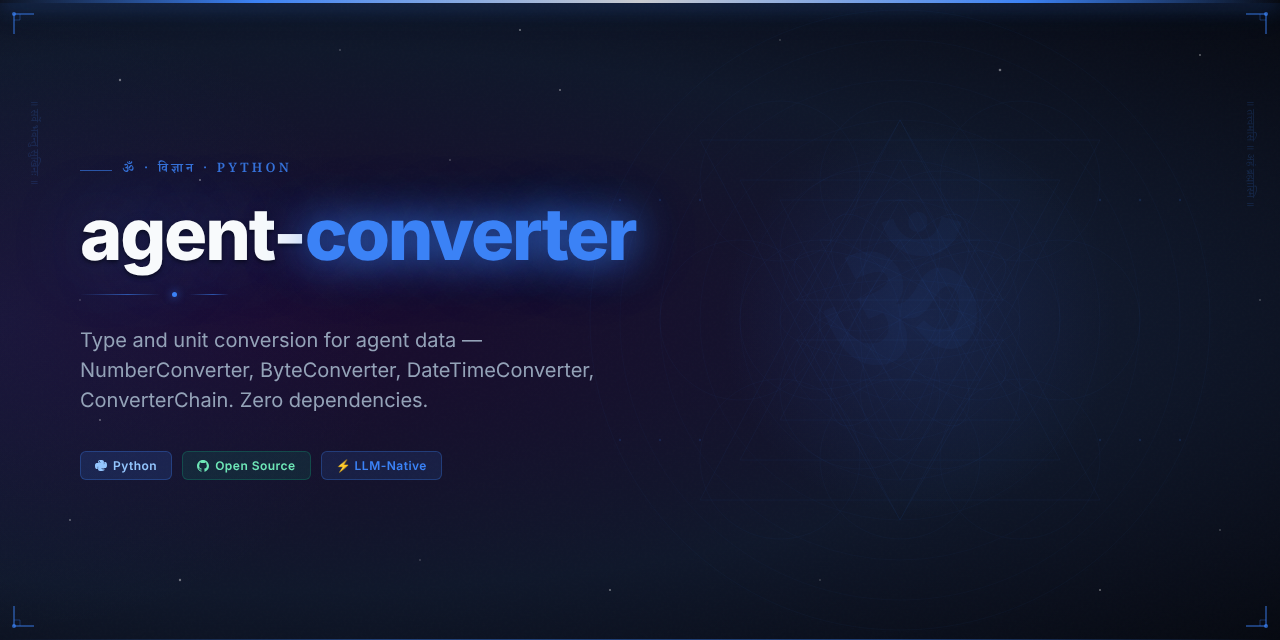
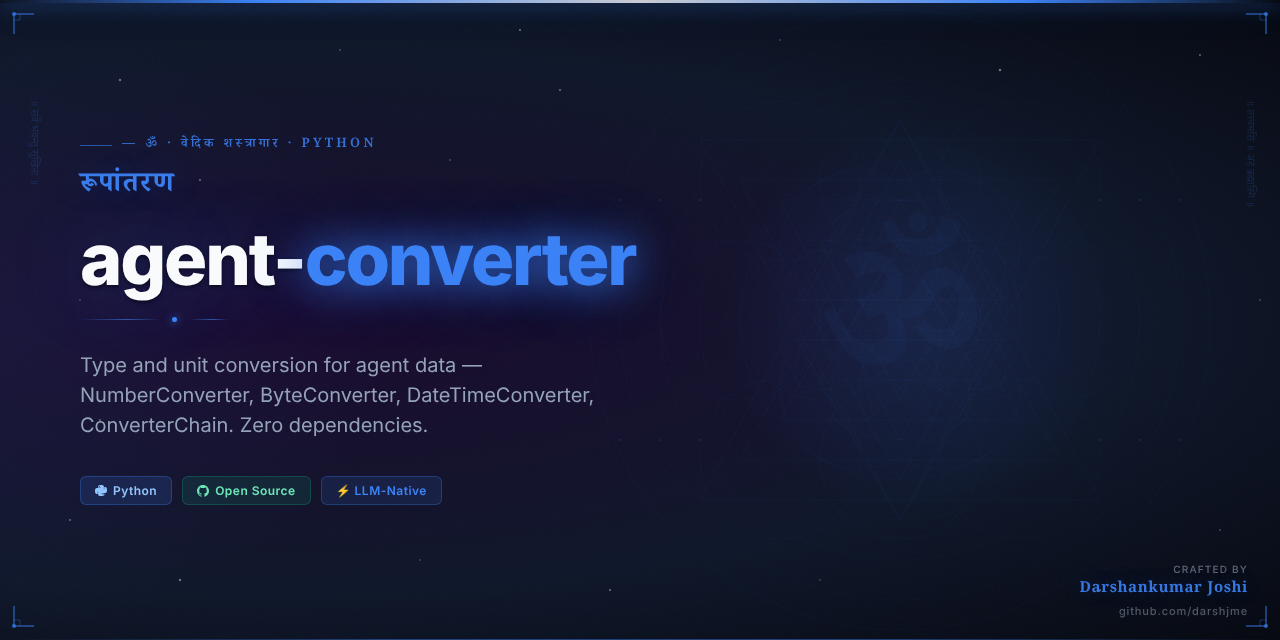
feat: add Vedic Arsenal hero image and updated README
Part of darshjme/arsenal — 100 production-grade Python libraries for LLM agents.
Vedic branding: ancient philosophy meets modern AI engineering.

diff --git a/README.md b/README.md
@@ -1,10 +1,12 @@
 <div align="center">
 
-<img src="assets/agent-converter-hero.png" alt="agent-converter — Vedic Arsenal" width="100%" />
+<img src="assets/agent-converter-hero.png" alt="agent-converter — Vedic Arsenal by Darshankumar Joshi" width="100%" />
 
 # 🌊 agent-converter
 
-### *रूपांतरण* — Rupantarana — transformation of forms
+<h3><em>रूपांतरण</em></h3>
+
+> *Rupantarana — transformation of forms*
 
 **Type and unit conversion for agent data — NumberConverter, ByteConverter, DateTimeConverter, ConverterChain. Zero dependencies.**
 
@@ -39,6 +41,19 @@ Or clone directly:
 git clone https://github.com/darshjme/agent-converter.git
 cd agent-converter
 pip install -e .
+```
+
+## How It Works
+
+```mermaid
+flowchart LR
+    A[Input] --> B[agent-converter]
+    B --> C{Process}
+    C -- Success --> D[Output]
+    C -- Error --> E[Handle / Retry]
+    E --> B
+    style B fill:#6b21a8,color:#fff
+    note["Converter — Zero Dependencies"]
 ```
 
 ## Quick Start
@@ -90,7 +105,7 @@ MIT — use freely, build freely.
 
 <div align="center">
 
-**Built with 🌊 by [Darshankumar Joshi](https://github.com/darshjme)**
+**Built with 🌊 by [Darshankumar Joshi](https://github.com/darshjme)** · [@thedarshanjoshi](https://twitter.com/thedarshanjoshi)
 
 *"कर्मण्येवाधिकारस्ते मा फलेषु कदाचन"*
 *Your right is to action alone, never to the fruits thereof.*
